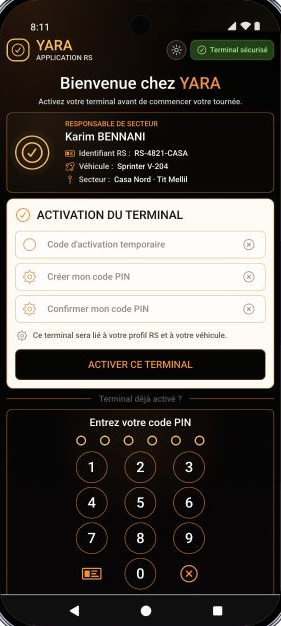
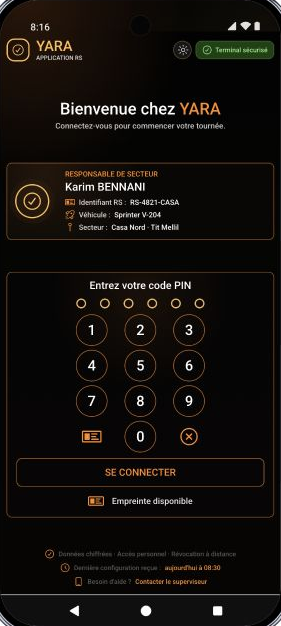
Compact YARA login screen

diff --git a/src/prototype.css b/src/prototype.css
@@ -4125,9 +4125,10 @@
   --login-gold: #ffbd54;
   --login-cream: #fffaf3;
   --login-border: rgba(255, 138, 31, 0.58);
-  gap: 13px;
+  justify-content: space-between;
+  gap: 9px;
   min-height: 100%;
-  padding: 0 12px calc(var(--mobile-safe-area-height) + 24px);
+  padding: 0 12px calc(var(--mobile-safe-area-height) + 12px);
   background:
     radial-gradient(circle at 18% 0%, rgba(255, 138, 31, 0.15), transparent 27%),
     radial-gradient(circle at 95% 20%, rgba(255, 189, 84, 0.08), transparent 28%),
@@ -4137,7 +4138,7 @@
 
 .login-topbar {
   display: flex;
-  min-height: 64px;
+  min-height: 58px;
   align-items: center;
   justify-content: space-between;
   gap: 10px;
@@ -4146,7 +4147,7 @@
 .login-brand-lockup {
   display: grid;
   min-width: 0;
-  grid-template-columns: 44px minmax(0, 1fr);
+  grid-template-columns: 38px minmax(0, 1fr);
   align-items: center;
   gap: 9px;
 }
@@ -4160,20 +4161,20 @@
 }
 
 .login-brand-mark {
-  width: 40px;
-  height: 40px;
+  width: 34px;
+  height: 34px;
   border-radius: 12px;
 }
 
 .login-brand-mark svg {
-  width: 22px;
-  height: 22px;
+  width: 19px;
+  height: 19px;
 }
 
 .login-brand-lockup strong {
   display: block;
   color: var(--login-gold);
-  font-size: 25px;
+  font-size: 22px;
   font-weight: 900;
   line-height: 0.96;
   letter-spacing: 0;
@@ -4183,7 +4184,7 @@
   display: block;
   margin-top: 3px;
   color: rgba(255, 255, 255, 0.86);
-  font-size: 11px;
+  font-size: 9px;
   font-weight: 900;
   line-height: 1;
   text-transform: uppercase;
@@ -4198,8 +4199,8 @@
 
 .login-theme-toggle {
   display: grid;
-  width: 30px;
-  height: 30px;
+  width: 28px;
+  height: 28px;
   place-items: center;
   border: 1px solid rgba(255, 189, 84, 0.32);
   border-radius: 999px;
@@ -4214,7 +4215,7 @@
 
 .secure-terminal-chip {
   display: inline-flex;
-  min-height: 31px;
+  min-height: 28px;
   align-items: center;
   gap: 5px;
   padding: 0 9px;
@@ -4222,7 +4223,7 @@
   border-radius: 9px;
   background: rgba(28, 87, 20, 0.72);
   color: #85ee7e;
-  font-size: 11px;
+  font-size: 10px;
   font-weight: 900;
   line-height: 1;
   white-space: nowrap;
@@ -4240,7 +4241,7 @@
 .login-welcome h1 {
   margin: 0;
   color: #ffffff;
-  font-size: 29px;
+  font-size: 26px;
   font-weight: 900;
   line-height: 1.08;
   letter-spacing: 0;
@@ -4251,20 +4252,20 @@
 }
 
 .login-welcome p {
-  margin: 7px 6px 0;
+  margin: 5px 6px 0;
   color: rgba(255, 255, 255, 0.78);
-  font-size: 14px;
+  font-size: 12px;
   font-weight: 700;
   line-height: 1.25;
 }
 
 .rs-profile-card {
   display: grid;
-  min-height: 118px;
-  grid-template-columns: 78px minmax(0, 1fr);
+  min-height: 100px;
+  grid-template-columns: 62px minmax(0, 1fr);
   align-items: center;
   gap: 14px;
-  padding: 14px 16px;
+  padding: 11px 12px;
   border: 1px solid var(--login-border);
   border-radius: 8px;
   background:
@@ -4273,16 +4274,16 @@
 }
 
 .rs-profile-badge {
-  width: 64px;
-  height: 64px;
+  width: 50px;
+  height: 50px;
   border-radius: 999px;
   background: rgba(255, 138, 31, 0.06);
-  box-shadow: 0 0 0 11px rgba(255, 138, 31, 0.045);
+  box-shadow: 0 0 0 8px rgba(255, 138, 31, 0.045);
 }
 
 .rs-profile-badge svg {
-  width: 36px;
-  height: 36px;
+  width: 30px;
+  height: 30px;
 }
 
 .rs-profile-copy {
@@ -4301,7 +4302,7 @@
 .rs-profile-copy h2 {
   margin: 0;
   color: #ffffff;
-  font-size: 20px;
+  font-size: 18px;
   font-weight: 900;
   line-height: 1.05;
   letter-spacing: 0;
@@ -4309,8 +4310,8 @@
 
 .rs-profile-list {
   display: grid;
-  gap: 5px;
-  margin-top: 9px;
+  gap: 4px;
+  margin-top: 7px;
 }
 
 .rs-profile-list span {
@@ -4319,7 +4320,7 @@
   align-items: center;
   gap: 6px;
   color: rgba(255, 255, 255, 0.84);
-  font-size: 12px;
+  font-size: 11px;
   font-weight: 700;
   line-height: 1.14;
 }
@@ -4477,7 +4478,7 @@
 }
 
 .pin-login-card {
-  padding: 14px 16px 15px;
+  padding: 13px 16px 14px;
   border: 1px solid var(--login-border);
   border-radius: 8px;
   background:
@@ -4498,7 +4499,7 @@
   display: flex;
   justify-content: center;
   gap: 21px;
-  margin: 15px 0 12px;
+  margin: 13px 0 11px;
 }
 
 .pin-dot {
@@ -4516,15 +4517,15 @@
 
 .pin-keypad {
   display: grid;
-  grid-template-columns: repeat(3, 54px);
+  grid-template-columns: repeat(3, 52px);
   justify-content: center;
-  gap: 9px 29px;
+  gap: 8px 28px;
 }
 
 .pin-key {
   display: grid;
-  width: 54px;
-  height: 54px;
+  width: 52px;
+  height: 52px;
   place-items: center;
   border: 1px solid rgba(255, 138, 31, 0.76);
   border-radius: 999px;
@@ -4553,8 +4554,8 @@
 }
 
 .pin-login-button {
-  min-height: 48px;
-  margin-top: 12px;
+  min-height: 46px;
+  margin-top: 11px;
   border: 1px solid rgba(255, 138, 31, 0.76);
   background: transparent;
   color: var(--login-orange);
@@ -4566,23 +4567,23 @@
   align-items: center;
   justify-content: center;
   gap: 12px;
-  margin: 13px 0 0;
+  margin: 10px 0 0;
   color: rgba(255, 255, 255, 0.9);
-  font-size: 14px;
+  font-size: 13px;
   font-weight: 700;
   line-height: 1;
 }
 
 .fingerprint-note svg {
-  width: 28px;
-  height: 28px;
+  width: 24px;
+  height: 24px;
   color: var(--login-orange);
 }
 
 .login-footer {
   display: grid;
-  gap: 9px;
-  padding: 4px 10px 0;
+  gap: 6px;
+  padding: 0 8px;
   color: rgba(255, 255, 255, 0.88);
   text-align: center;
 }
@@ -4592,17 +4593,17 @@
   min-width: 0;
   align-items: center;
   justify-content: center;
-  gap: 8px;
+  gap: 6px;
   margin: 0;
-  font-size: 12px;
+  font-size: 10px;
   font-weight: 700;
   line-height: 1.25;
 }
 
 .login-footer svg {
   flex: 0 0 auto;
-  width: 18px;
-  height: 18px;
+  width: 15px;
+  height: 15px;
   color: var(--login-orange);
 }
 

diff --git a/src/Prototype.tsx b/src/Prototype.tsx
@@ -488,9 +488,6 @@ function ActivationScreen({
   onToggleTheme: () => void;
   onActivate: () => void;
 }) {
-  const [activationCode, setActivationCode] = useState("");
-  const [pinSetup, setPinSetup] = useState("");
-  const [pinConfirm, setPinConfirm] = useState("");
   const [pinLogin, setPinLogin] = useState("");
   const pinKeys = ["1", "2", "3", "4", "5", "6", "7", "8", "9", "fingerprint", "0", "delete"];
 
@@ -549,7 +546,7 @@ function ActivationScreen({
         <h1 id="activation-title">
           Bienvenue chez <span>YARA</span>
         </h1>
-        <p>Activez votre terminal avant de commencer votre tournée.</p>
+        <p>Connectez-vous pour commencer votre tournée.</p>
       </section>
 
       <section className="rs-profile-card" aria-label="Responsable de secteur">
@@ -569,76 +566,6 @@ function ActivationScreen({
           </div>
         </div>
       </section>
-
-      <form
-        className="terminal-activation-card"
-        aria-label="Activation du terminal"
-        onSubmit={(event) => {
-          event.preventDefault();
-          submitLogin();
-        }}
-      >
-        <div className="terminal-card-title">
-          <CheckCircledIcon />
-          <h2>Activation du terminal</h2>
-        </div>
-
-        <label className="terminal-input-row" htmlFor="activation-code">
-          <ValueIcon aria-hidden="true" />
-          <KeyboardInput
-            id="activation-code"
-            aria-label="Code d'activation temporaire"
-            placeholder="Code d'activation temporaire"
-            value={activationCode}
-            onChange={(event) => setActivationCode(event.currentTarget.value)}
-            data-testid="activation-code"
-          />
-          <CrossCircledIcon aria-hidden="true" />
-        </label>
-
-        <label className="terminal-input-row" htmlFor="pin-setup">
-          <GearIcon aria-hidden="true" />
-          <KeyboardInput
-            id="pin-setup"
-            aria-label="Créer mon code PIN"
-            placeholder="Créer mon code PIN"
-            value={pinSetup}
-            onChange={(event) => setPinSetup(event.currentTarget.value)}
-            inputMode="numeric"
-            data-testid="pin-setup"
-          />
-          <CrossCircledIcon aria-hidden="true" />
-        </label>
-
-        <label className="terminal-input-row" htmlFor="pin-confirm">
-          <GearIcon aria-hidden="true" />
-          <KeyboardInput
-            id="pin-confirm"
-            aria-label="Confirmer mon code PIN"
-            placeholder="Confirmer mon code PIN"
-            value={pinConfirm}
-            onChange={(event) => setPinConfirm(event.currentTarget.value)}
-            inputMode="numeric"
-            data-testid="pin-confirm"
-          />
-          <CrossCircledIcon aria-hidden="true" />
-        </label>
-
-        <p className="terminal-link-note">
-          <GearIcon />
-          Ce terminal sera lié à votre profil RS et à votre véhicule.
-        </p>
-
-        <button className="terminal-activate-button" type="submit" data-scroll-drag="ignore">
-          Activer ce terminal
-        </button>
-      </form>
-
-      <div className="terminal-divider" aria-hidden="true">
-        <span />
-        <p>Terminal déjà activé ?</p>
-        <span />
-      </div>
 
       <section className="pin-login-card" aria-label="Connexion par code PIN">
         <h2>Entrez votre code PIN</h2>

diff --git a/design-qa.md b/design-qa.md
@@ -2,7 +2,7 @@
 
 Source references:
 - WhatsApp Accueil du jour screenshot provided by the user.
-- WhatsApp login / activation screenshot provided by the user.
+- WhatsApp login screenshot provided by the user.
 
 Prototype checked:
 - Activation
@@ -15,8 +15,9 @@ Prototype checked:
 - Synchronisation
 
 Checks performed:
-- First screen is now the login / terminal activation interface.
-- Activation accepts any temporary code/PIN and enters the app.
+- First screen is now the compact login interface.
+- The activation terminal block has been removed.
+- Login fits in one phone screen with no scroll overflow.
 - PIN keypad accepts digits and can enter the app.
 - Logout is available from the in-app Plus / Synchronisation area and returns to login.
 - Dark premium YARA visual language applied across all routes.
